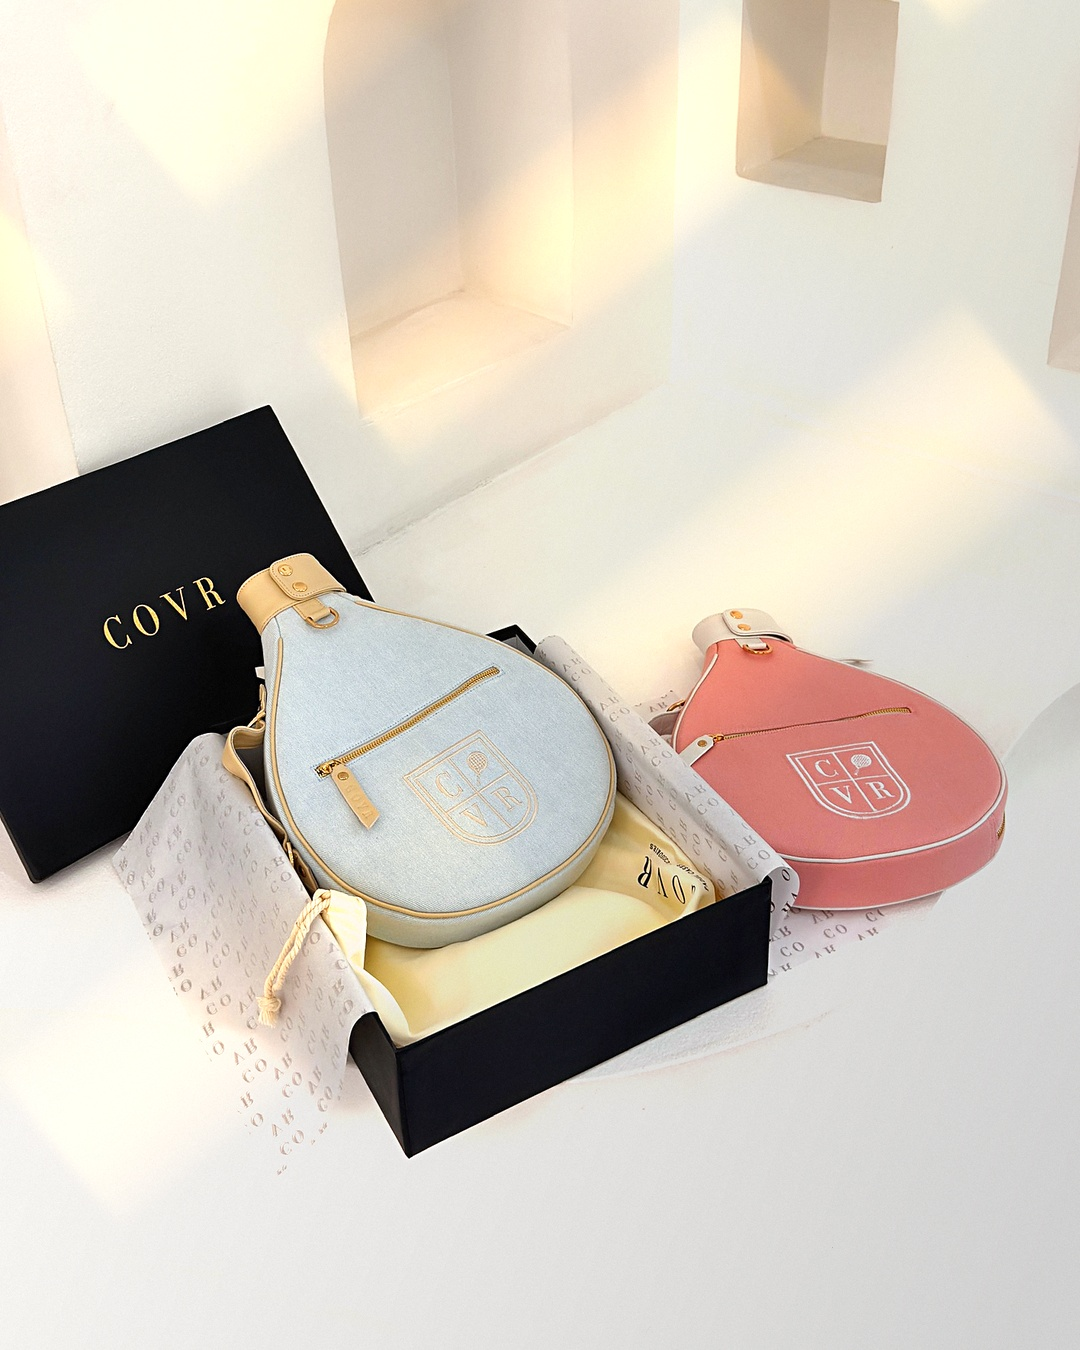
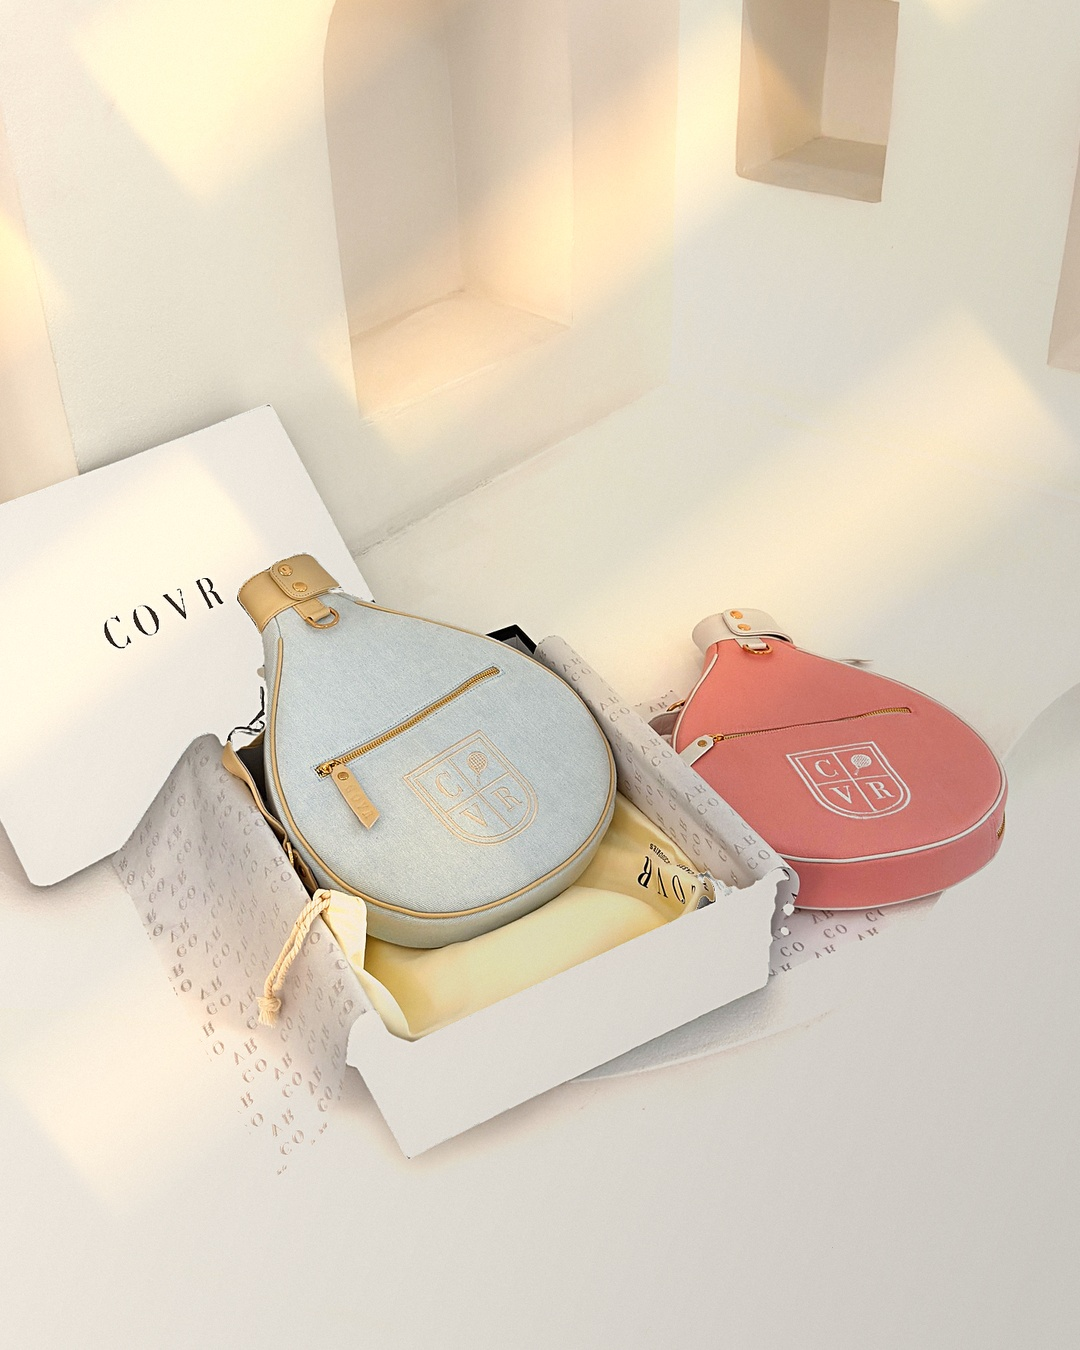
Gift-box photo: white box, off-white background
Claude-Session: https://claude.ai/code/session_01V345AG8PM5DpNjc2uC2RjB

Changed region(s): [[0.0, 0.28, 0.3667, 0.6844], [0.3056, 0.6222, 0.7333, 0.8711]]

diff --git a/creative/natural_light.py b/creative/natural_light.py
@@ -9,6 +9,39 @@ P = lambda *a: os.path.join(ROOT, *a)
 def blur(a, r):
     return np.asarray(Image.fromarray((np.clip(a, 0, 1) * 255).astype(np.uint8)).filter(ImageFilter.GaussianBlur(r))).astype(np.float32) / 255
 
+def white_box(im):
+    """Recolour the black gift box white (keeps its shading); gold COVR becomes dark lettering."""
+    from scipy import ndimage as nd
+    a = np.asarray(im).astype(np.float32)
+    L = a @ np.array([0.299, 0.587, 0.114])
+    dark = L < 80
+    dark[:1100] = False; dark[2200:] = False; dark[:, 1150:] = False
+    lab, n = nd.label(dark); sz = nd.sum(dark, lab, range(1, n + 1))
+    box = np.isin(lab, [i + 1 for i, v in enumerate(sz) if v > 20000])
+    box = nd.binary_fill_holes(nd.binary_closing(box, iterations=4))
+    # pick up thin dark edges/corners left next to the box
+    near = nd.binary_dilation(box, iterations=26)
+    box |= near & (L < 105)
+    box = nd.binary_fill_holes(nd.binary_closing(box, iterations=3))
+    # smooth the outline so edges stay crisp and straight, not torn
+    box = blur(box.astype(np.float32), 2.5) > 0.5
+    r, b = a[..., 0], a[..., 2]
+    gold = box & ((r - b) > 35) & (L > 70)
+    gold_s = np.clip(((r - b) - 30) / 30, 0, 1) * np.clip((L - 60) / 50, 0, 1) * box
+    lo, hi = np.percentile(L[box & ~gold], [5, 97])
+    norm = np.clip((L - lo) / (hi - lo), 0, 1)
+    white = np.array([242, 240, 236], np.float32)
+    nb = white * (0.78 + 0.24 * norm)[..., None]
+    ink = np.array([46, 40, 38], np.float32)
+    nb = nb * (1 - gold_s[..., None]) + ink * gold_s[..., None]
+    alpha = blur(box.astype(np.float32), 1.0)[..., None]
+    # soft contact shadow on the floor so the white box stands out
+    sh = np.roll(box, 18, axis=0).astype(np.float32)
+    sh = blur(sh, 22) * (1 - box)
+    a = a * (1 - 0.30 * sh[..., None])
+    out = a * (1 - alpha) + nb * alpha
+    return Image.fromarray(np.clip(out, 0, 255).astype(np.uint8))
+
 def grade(im):
     a = np.asarray(im).astype(np.float32) / 255
     H, W = a.shape[:2]
@@ -50,11 +83,15 @@ def grade(im):
     b = np.asarray(out).astype(np.float32)
     glow = np.asarray(Image.fromarray(np.clip((b - 205) * 3, 0, 255).astype(np.uint8)).filter(ImageFilter.GaussianBlur(30))).astype(np.float32)
     b = b + glow * np.array([0.10, 0.08, 0.05])
+    hl = np.clip((b.mean(2, keepdims=True) - 170) / 85, 0, 1)
+    b = b * (1 - 0.10 * hl) + np.array([236, 228, 214]) * 0.10 * hl
+    b = b * np.array([0.965, 0.95, 0.925])
     b += np.random.default_rng(1).normal(0, 2.2, b.shape[:2])[..., None]
     return Image.fromarray(np.clip(b, 0, 255).astype(np.uint8))
 
 if __name__ == '__main__':
     src = ImageOps.exif_transpose(Image.open(P('media/IMG_0628.JPG'))).convert('RGB')  # 1536x2730
+    src = white_box(src)
     g = grade(src)
     os.makedirs(P('ads/girls'), exist_ok=True)
     g.crop((240, 520, 1380, 2547)).resize((1080, 1920), Image.LANCZOS).save(P('ads/girls/giftbox-natural-light-9x16.jpg'), quality=95)
